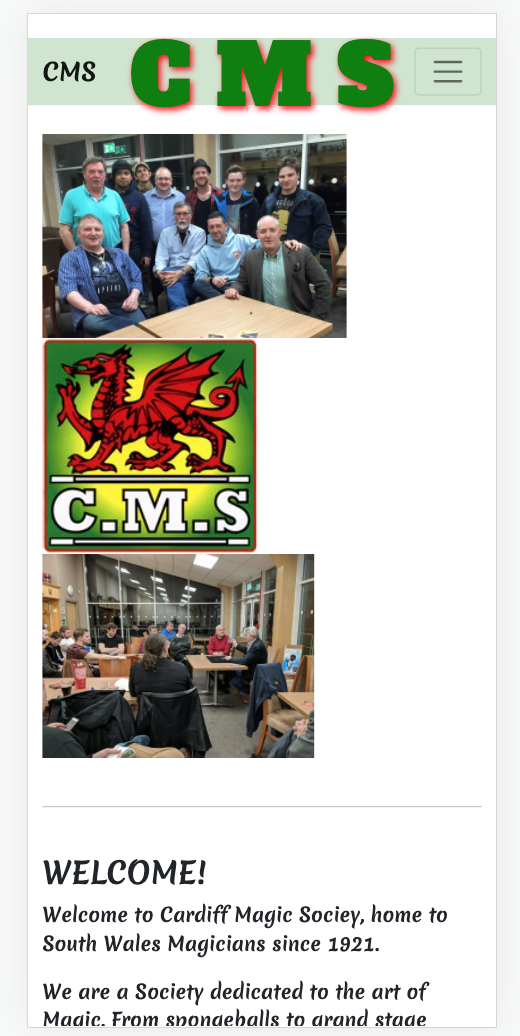
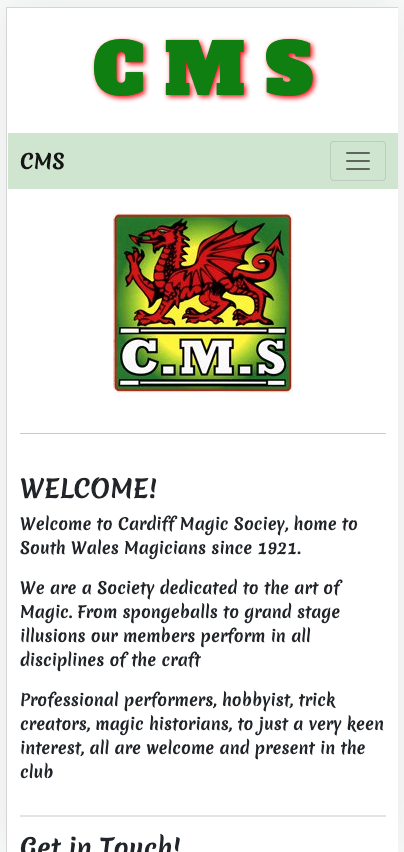
README.md update coding bug fix

diff --git a/README.md b/README.md
@@ -325,6 +325,20 @@ base.css structure :
 - Media queries in static/css/base.css are not being applied to home page when viewing website on screens small than 995px
 - On screens smaller than 995px the two pictures either side of society badge are suppose to disappear, this is not being applied.
 
+<img src="media/readme_images/tablet_error.jpeg">
+
+<img src="media/readme_images/mobile_error.jpeg">
+
+### Issue fix 
+
+<img src="media/readme_images/mediaq_code.jpeg">
+
+- Removed !important tag from media queries in static/base.css . This was put there previously as media query was not working, however removing it has now worked.
+
+<img src="media/readme_images/tablet.jpeg">
+
+<img src="media/readme_images/mobile.jpeg">
+
 ### Issue - Magic adverts unable to upload
 
 - When user is on profile page they have option to upload a magic services advert to the magician for hire page. This form is suppose to give users one advert posted on to magician for hire page.
